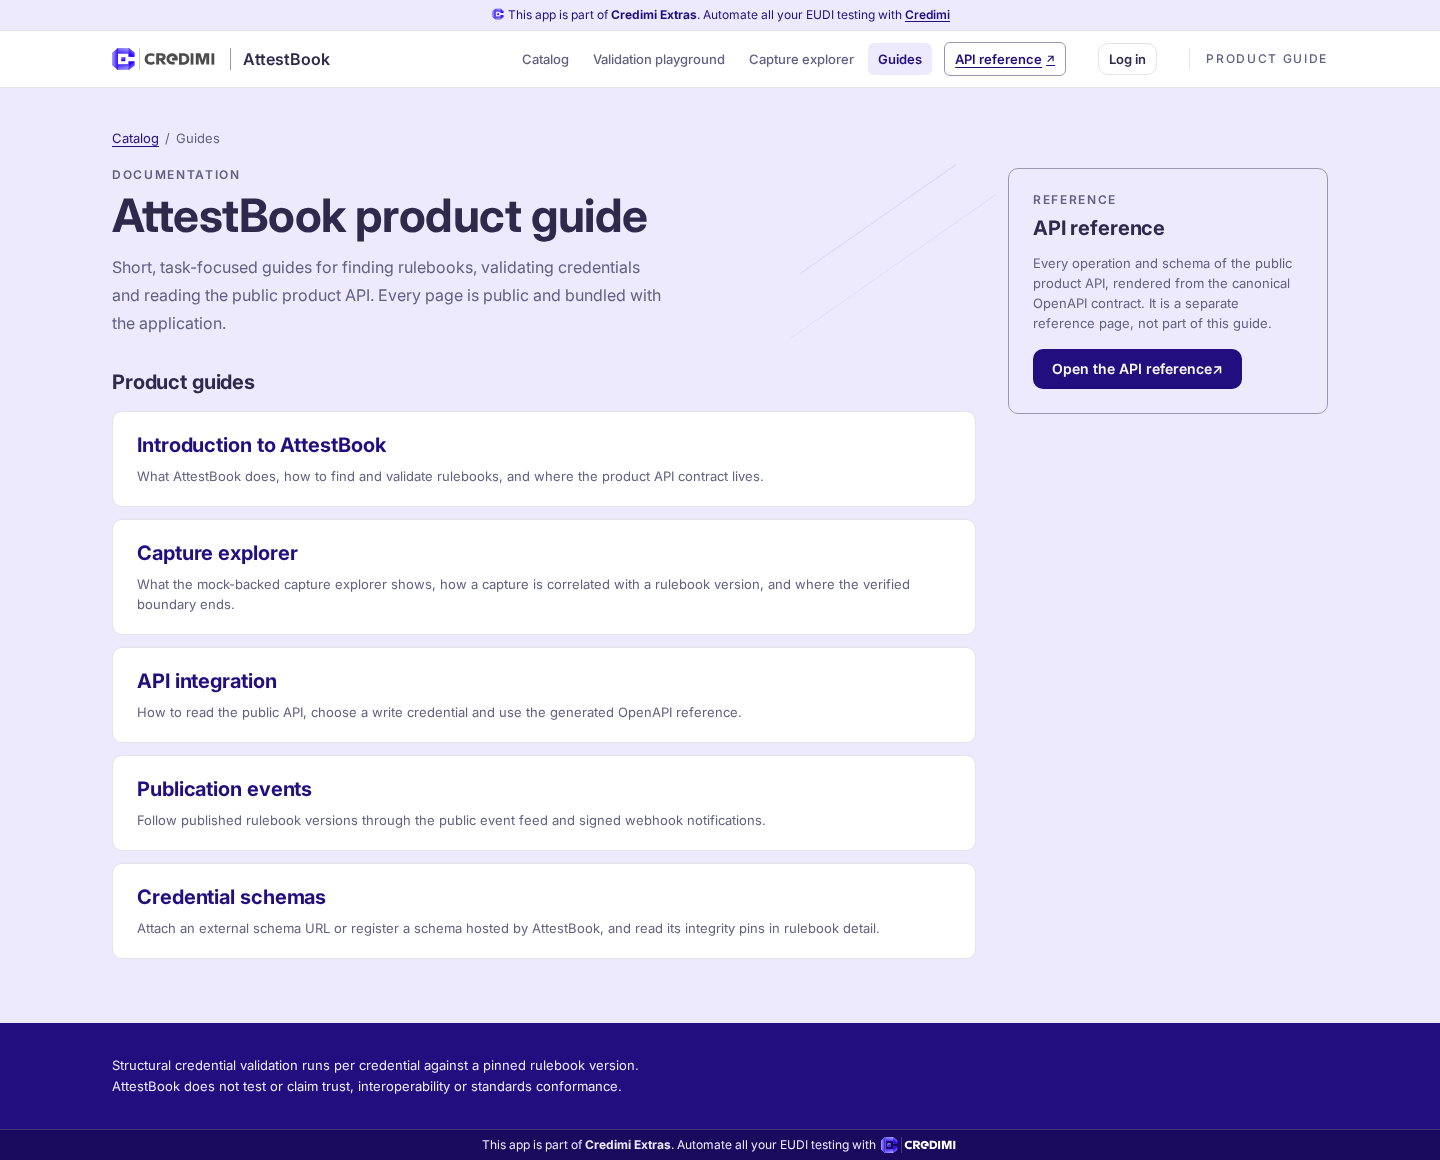
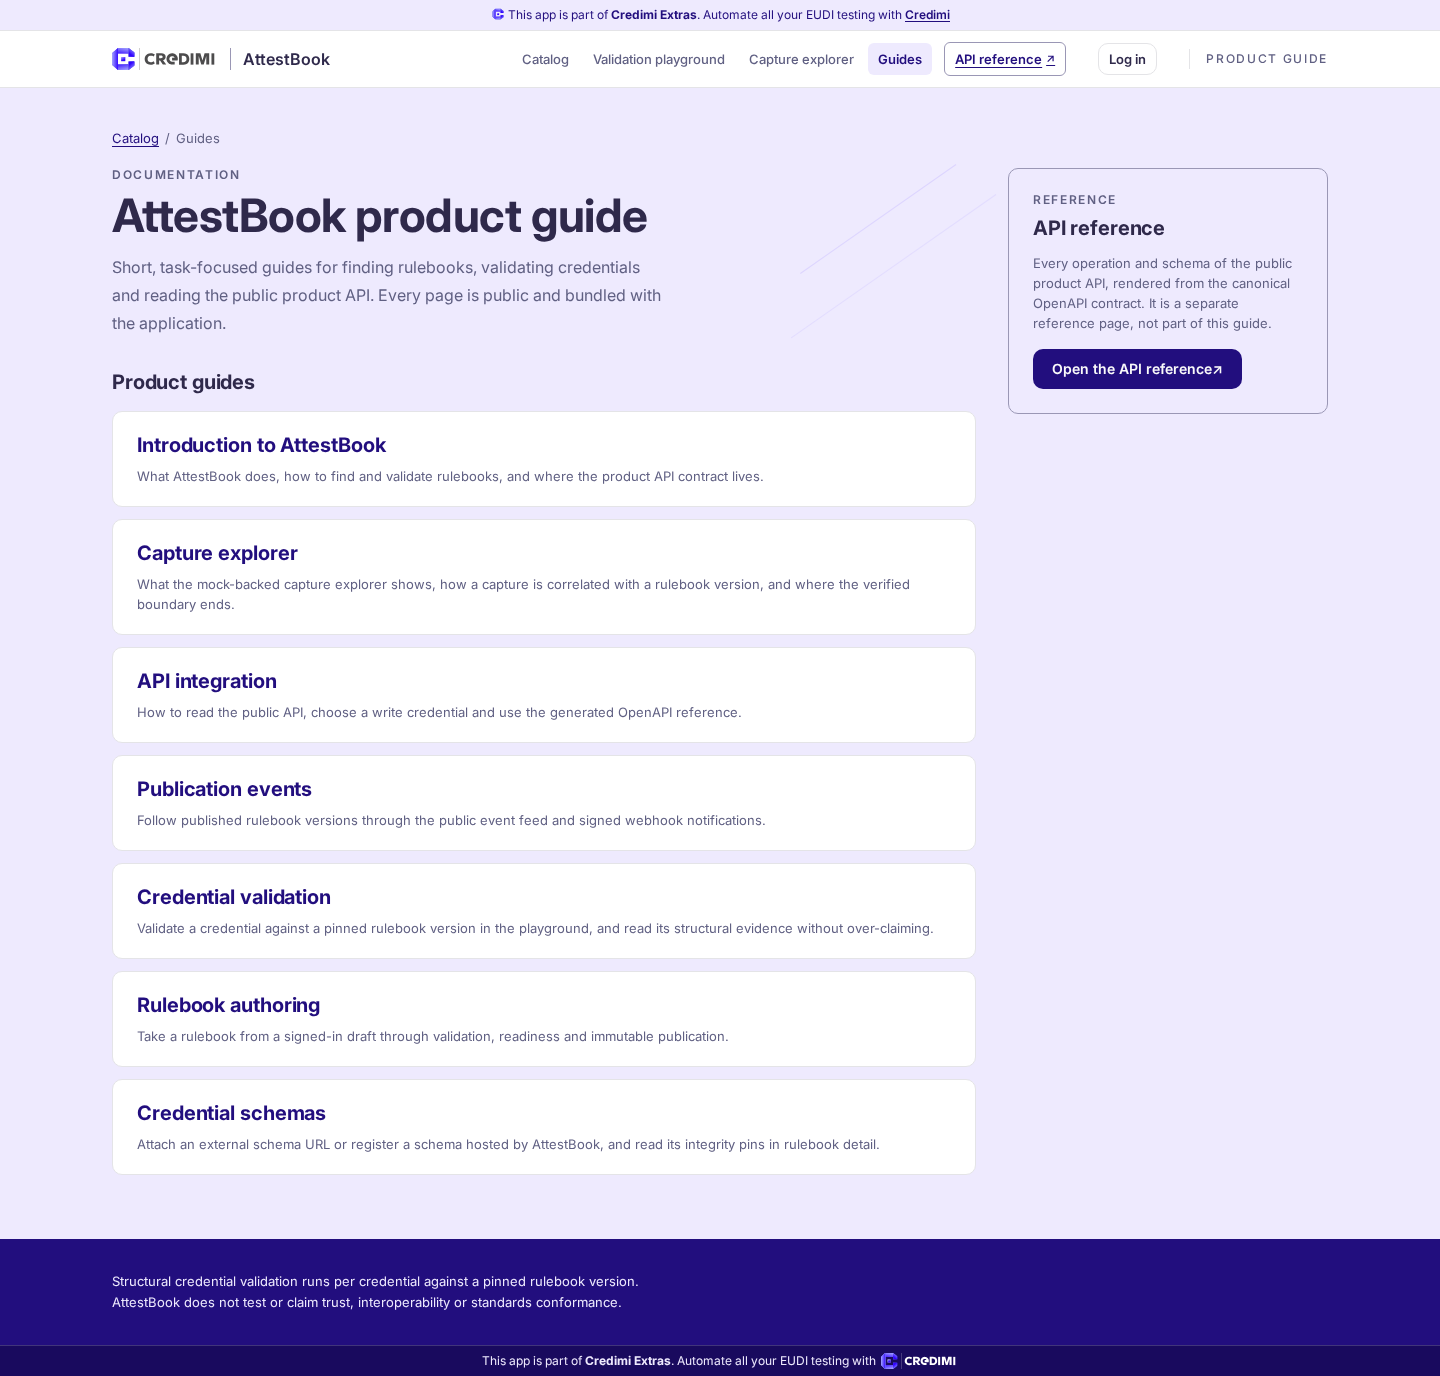
fix(guide): wrap long inline code on guide pages
The named schema-references path is wider than a 390 px article, so the guide page overflowed the viewport and the browser check failed. Let long inline code wrap inside the guide article, and refresh the evidence after the merged guide set.

diff --git a/ui/src/styles.css b/ui/src/styles.css
@@ -642,6 +642,8 @@ dd {
   border-radius: var(--radius-xs);
   background: var(--brand-secondary);
   font-size: 0.9em;
+  /* Long API paths must wrap instead of widening the page on a narrow screen. */
+  overflow-wrap: anywhere;
 }
 
 .guide-article pre {
